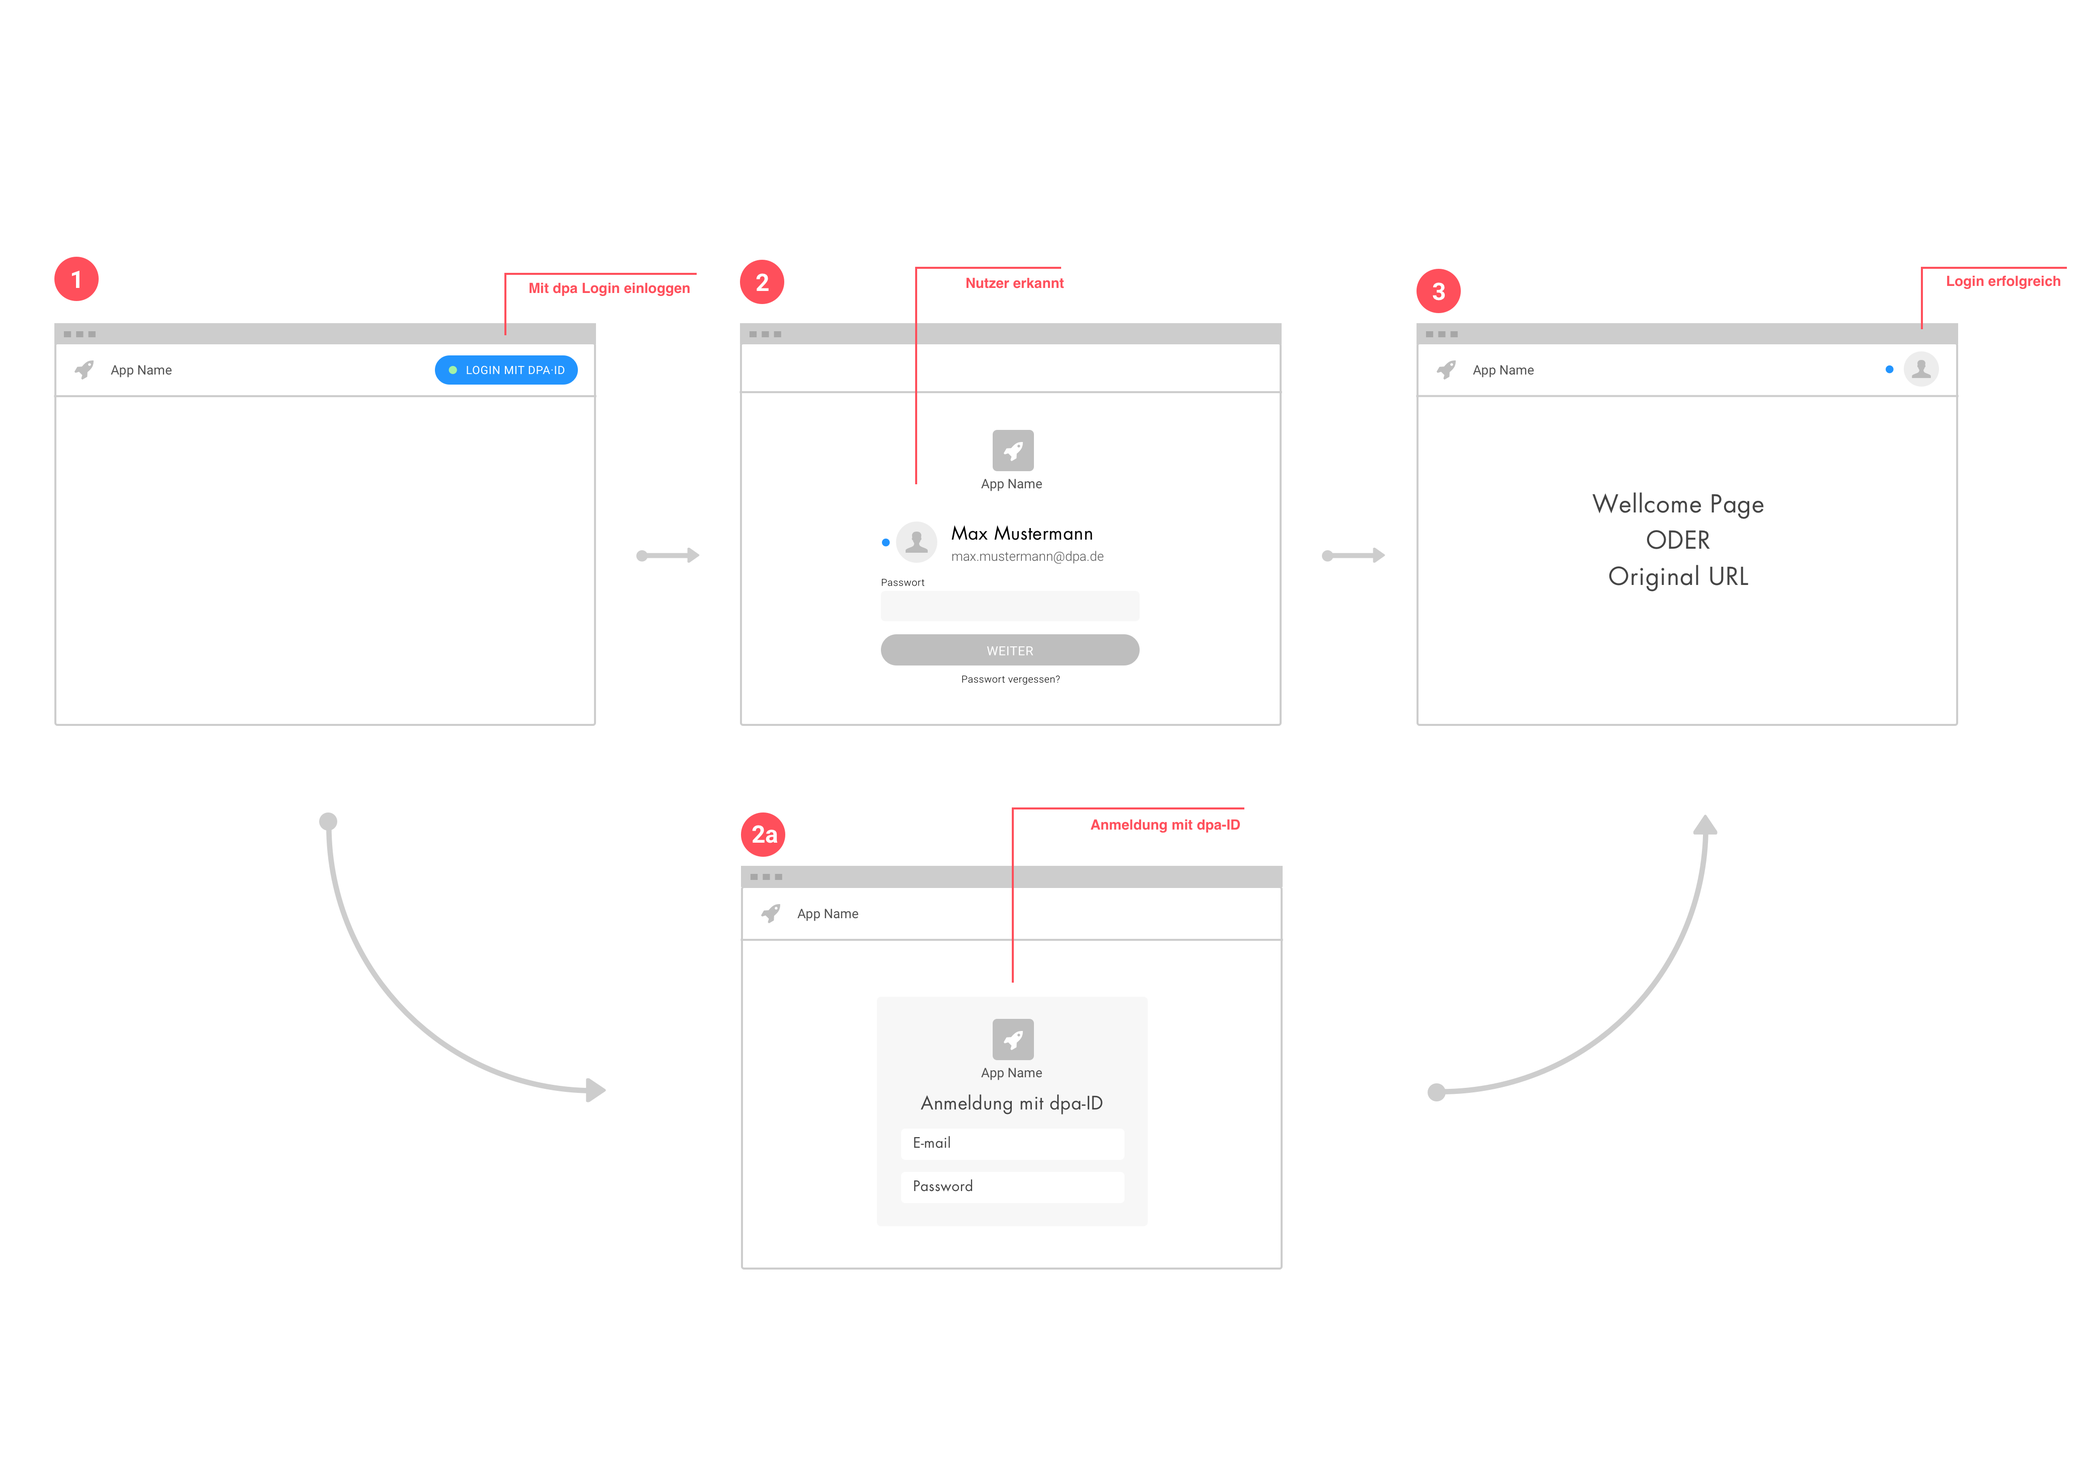
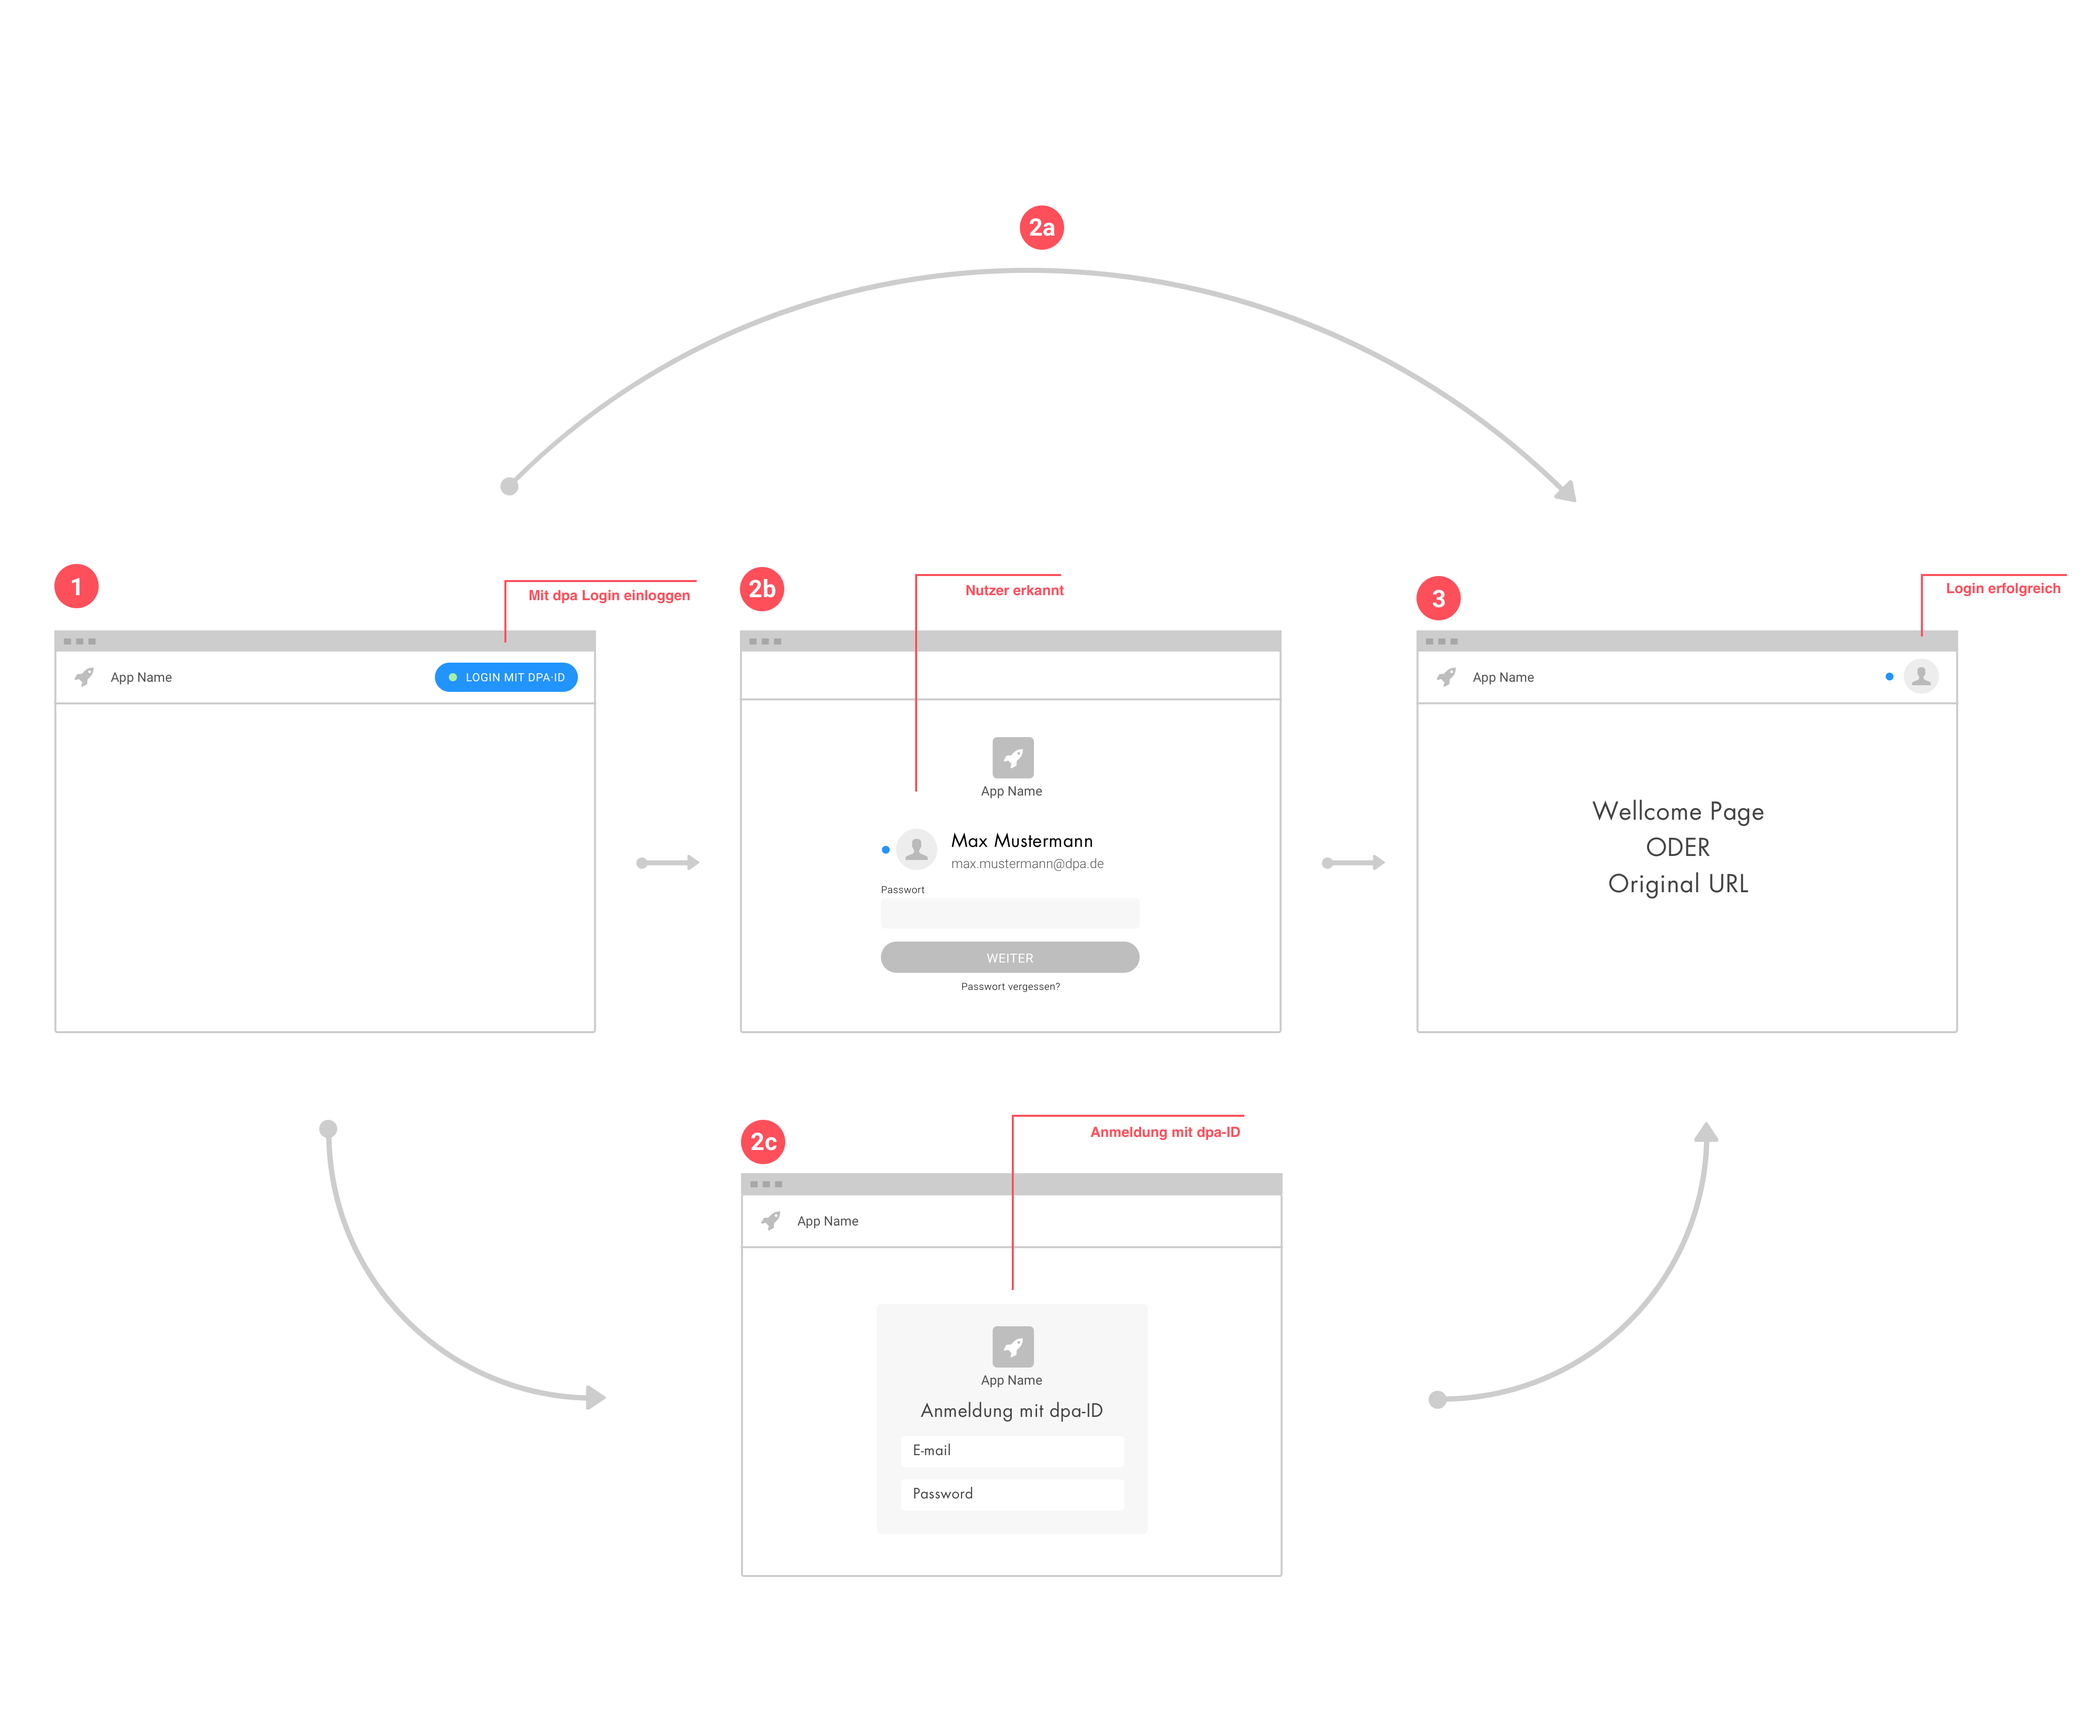
ixd anmelden: neues bild und text formatierung

diff --git a/docs/interaktionen/anmelden-mit-dpa-id.md b/docs/interaktionen/anmelden-mit-dpa-id.md
@@ -21,41 +21,43 @@ Der Nutzer möchte sich anmelden, um die Tool überhaupt zu nutzen oder innerhal
 ![](./anmelden/ixd-anmelden-flow.png)
 
 ### <Step number="1" /> Schritt 1
-**Was passiert**
+#### Was passiert
 Nutzer gibt URL von der App ein
 
-**Was sieht er**
+#### Was sieht er
 Login mit dpa Button
 
-**Hinweise**
+#### Hinweise
 Der Button sollte immer gleichberechtigt
 
 ### <Step number="2" /> Schritt 2
-**Was passiert**
+
+#### Was passiert
 Das System leitet den Nutzer zum Login Screen für die dpa·ID weiter.
 
-**Was sieht er**
+#### Was sieht er
 
-a) Der Nutzer ist am System angemeldet
+##### <Step number="2a" /> Der Nutzer ist am System angemeldet
 Direkte Weiterleitung zurück zu App
 
-b) Der Nutzer dem dpa ID System bekannt
+##### <Step number="2b" /> Der Nutzer dem dpa ID System bekannt
 Der Screen wird vollflächig angezeigt. Auf dem Screen wird das Tool für den sich der Nutzer anmeldet angezeigt. Außerdem ist der Nutzer selbst angegeben. Der Nutzer muss lediglich das Passwort-Feld angeben.
 
-c) <Step number="2b" /> Der Nutzer ist nicht bekannt
+##### <Step number="2c" /> Der Nutzer ist nicht bekannt
 Der Nutzer kann Nutzername oder Passwort angeben.
 
-**Hinweise**:
+#### Hinweise
 Hinweise zur Gestaltung des Tool Identifikationsbildes
 
 ### <Step number="3" /> Schritt 3
 
-**Was passiert**: Der Nutzer hat anmelden geklickt
+#### Was passiert
+Der Nutzer hat anmelden geklickt
 
-**Was sieht er**:
+#### Was sieht er
 Das Tool mit Inhalten und Funktionen. Eine Bestätigung, dass die Anmeldung mit der dpa·ID funktioniert hat. Sein eigenes Profilbild oder Kürzel.
 
-**Hinweise**:
+#### Hinweise
 Das Profilbild soll oben rechts positioniert werden. Die Bestätigung, dass die Anmeldung erfolgreich war erfolgt als Animation am Profilbild.
 
 [Code-Skizze für Animation in Code-Pen](https://codepen.io/anon/pen/deqGVP)
